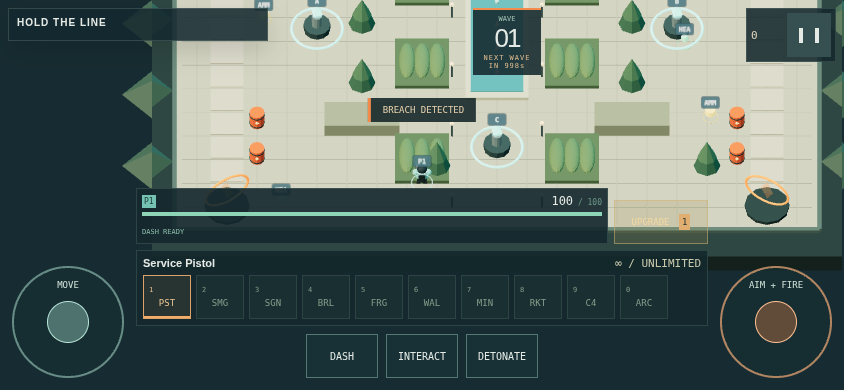
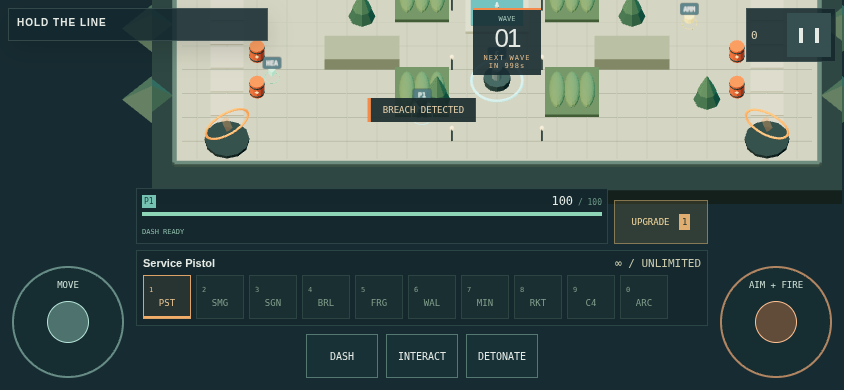
Keep players visible on short mobile screens and verify touch scrolling

diff --git a/tests/e2e/multitouch.spec.ts b/tests/e2e/multitouch.spec.ts
@@ -51,6 +51,28 @@ test('real simultaneous touch movement, firing, dash, interaction, cancellation 
   expect(await page.evaluate(() => window.__BREACH__.game.players[0].x)).toBeCloseTo(stopped.x, 2);
   expect(await page.evaluate(() => window.__BREACH__.game.players[0].ammo[1])).toBe(stopped.ammo);
 
+  // Swipe the arsenal without selecting the button underneath the finger.
+  const strip = (await page.locator('.weapon-slots').boundingBox())!;
+  const swipe = async (from: number, to: number) => {
+    const finger = { id: 6, x: from, y: strip.y + strip.height / 2 };
+    await cdp.send('Input.dispatchTouchEvent', { type: 'touchStart', touchPoints: [finger] });
+    for (let step = 1; step <= 10; step++)
+      await cdp.send('Input.dispatchTouchEvent', {
+        type: 'touchMove',
+        touchPoints: [{ ...finger, x: from + ((to - from) * step) / 10 }],
+      });
+    await cdp.send('Input.dispatchTouchEvent', { type: 'touchEnd', touchPoints: [] });
+  };
+  await swipe(strip.x + strip.width - 25, strip.x + 25);
+  await expect
+    .poll(() => page.locator('.weapon-slots').evaluate((el) => el.scrollLeft))
+    .toBeGreaterThan(40);
+  expect(await page.evaluate(() => window.__BREACH__.game.players[0].weapon)).toBe(1);
+  await swipe(strip.x + 25, strip.x + strip.width - 25);
+  await expect
+    .poll(() => page.locator('.weapon-slots').evaluate((el) => el.scrollLeft))
+    .toBeLessThan(5);
+
   await page.evaluate(() => {
     const g = window.__BREACH__.game,
       p = g.players[0],

diff --git a/tests/e2e/mobile.spec.ts b/tests/e2e/mobile.spec.ts
@@ -101,6 +101,7 @@ test('mobile controls fit portrait/landscape, dialogs work, and rotation clears 
     [320, 568],
     [390, 844],
     [844, 390],
+    [568, 320],
     [1024, 768],
   ]) {
     await page.setViewportSize({ width, height });
@@ -118,6 +119,16 @@ test('mobile controls fit portrait/landscape, dialogs work, and rotation clears 
       expect(box.y + box.height).toBeLessThanOrEqual(height + 1);
     }
     expect(await page.evaluate(() => document.documentElement.scrollWidth)).toBe(width);
+    await expect
+      .poll(() =>
+        page.evaluate(() => {
+          const p = window.__BREACH__.world.project(window.__BREACH__.game.players[0]);
+          const top = document.querySelector('.hud-top')!.getBoundingClientRect().bottom;
+          const bottom = document.querySelector('.hud-bottom')!.getBoundingClientRect().top;
+          return Math.min(p.y - top - 15, bottom - p.y - 10);
+        }),
+      )
+      .toBeGreaterThan(0);
     await page.locator('#pause').click();
     await expect(page.getByRole('dialog')).toContainText('Operation paused');
     await page.locator('#resume').click();

diff --git a/src/rendering/World.ts b/src/rendering/World.ts
@@ -836,7 +836,9 @@ export class World {
     }
     this.camera.left = -height * aspect;
     this.camera.right = height * aspect;
-    const offset = game && this.touchControls && aspect < 1 ? 0.22 : 0;
+    // Keep the response team above the touch HUD, including short landscape screens.
+    const offset =
+      game && this.touchControls ? (aspect < 1 ? 0.22 : this.height <= 600 ? 0.34 : 0) : 0;
     this.camera.top = height * (1 - offset);
     this.camera.bottom = -height * (1 + offset);
     this.camera.near = 0.1;
